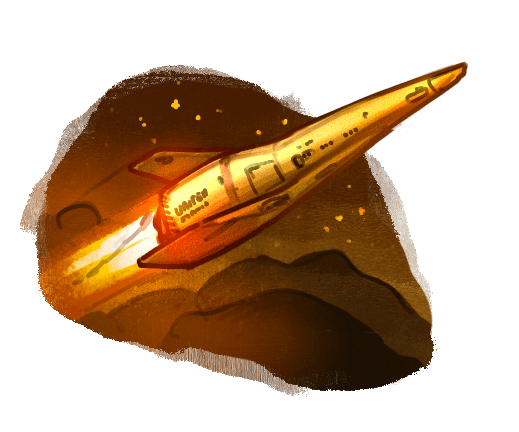
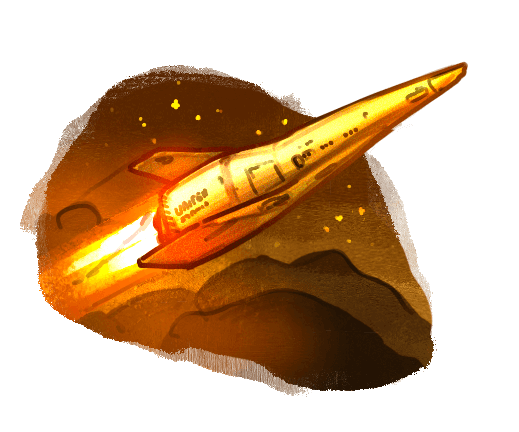
Post nav is ugly as fuck but it works

Changed region(s): [[0.0617, 0.1505, 0.9249, 0.8426], [0.3083, 0.2407, 0.3391, 0.2708], [0.2466, 0.2708, 0.2775, 0.3009]]

diff --git a/src/components/post/PostNavigationBar.component.tsx b/src/components/post/PostNavigationBar.component.tsx
@@ -1,22 +1,48 @@
 import Button, { ButtonType } from "@/components/common/Button/Button.component"
 import FullWidthWrapper, { WrapperMax } from "@/components/wrappers/FullWidthWrapper.component"
+import { getFilenameWithoutExtension } from "@/utils/posts"
 import { faArrowLeft, faArrowRight } from "@fortawesome/free-solid-svg-icons"
 import { FontAwesomeIcon } from "@fortawesome/react-fontawesome"
 
 const PostNavigationBar = ({
+    previousPost,
+    nextPost
 }) => {
+    const hasNextPost = nextPost !== null
+    const hasPreviousPost = previousPost !== null
+
+    let nextSlug, nextPostURL
+    if (nextPost) {
+        nextSlug = getFilenameWithoutExtension(nextPost?.file || "")
+        nextPostURL = nextPost ? `/posts/${nextSlug}` : ''
+    }
+
+    let previousSlug, previousPostURL
+    if (nextPost) {
+        previousSlug = getFilenameWithoutExtension(previousPost?.file || "")
+        previousPostURL = previousPost ? `/posts/${previousSlug}` : ''
+    }
+
     return (
         <FullWidthWrapper width={WrapperMax.BlogWidth} classes="post-navigation-bar">
             <div className="post-navigation-inner">
                 <span className="floater tiny-code">post navigation</span>
-                <Button type={ButtonType.Link} linkURL="/posts" classes="padded left">
+                <Button 
+                    type={ButtonType.Link} 
+                    linkURL={nextPostURL} 
+                    classes={`padded left ${!hasNextPost && "unavailable"}`}
+                >
                     <>
                         <FontAwesomeIcon icon={faArrowLeft}></FontAwesomeIcon>
                         <span className="label">Newer Post</span>
                     </>
                 </Button>
                 <div className="line"></div>
-                <Button type={ButtonType.Link} linkURL="/posts" classes="padded right">
+                <Button 
+                    type={ButtonType.Link} 
+                    linkURL={previousPostURL} 
+                    classes={`padded right ${!hasPreviousPost && "unavailable"}`}
+                >
                     <>
                         <span className="label">Older Post</span>
                         <FontAwesomeIcon icon={faArrowRight}></FontAwesomeIcon>

diff --git a/src/utils/astroHelpers.ts b/src/utils/astroHelpers.ts
@@ -52,12 +52,23 @@ export const getAllPosts = async () => {
   ];
 
   // Sort collection by date.
-  const sortedPosts = processedPosts.sort((a, b) => {
-    return b.post.data.pubDate.valueOf() - a.post.data.pubDate.valueOf();
-  });
+  const sortedPosts = sortProcessedPostsByPubDate(processedPosts)
 
   return sortedPosts;
 };
+
+// This is for posts processed from getCollection.
+export const sortProcessedPostsByPubDate = (processedPosts) => {
+  return processedPosts.sort((a, b) => {
+    return b.post.data.pubDate.valueOf() - a.post.data.pubDate.valueOf();
+  });
+}
+// This is for globbed posts.
+export const sortPostsByPubDate = (posts) => {
+  return posts.sort((a, b) => {
+    return b.frontmatter.pubDate.valueOf() - a.frontmatter.pubDate.valueOf();
+  });
+}
 
 // Takes incoming posts, compiles thumb image and search data
 export const processPosts = async (posts) => {
@@ -114,4 +125,8 @@ export const getProcessedImageById = async (imageId: string, width?: number, for
 
 export const getImageObjectById = (imageId: string) => {
   return Images.find((imageItem) => imageItem.id === imageId);
+}
+
+export const getNearestPosts = () => {
+  
 }

diff --git a/src/utils/posts.ts b/src/utils/posts.ts
@@ -1,0 +1,22 @@
+export const findAdjacentObjects = (
+  arr,
+  targetId: number
+) => {
+  const targetIndex = arr.findIndex((obj) => obj.frontmatter.title === targetId);
+
+  if (targetIndex === -1) {
+    return { previousPost: null, nextPost: null }; // target object with given id not found in array
+  }
+
+  const previousPost = targetIndex > 0 ? arr[targetIndex - 1] : null;
+  const nextPost = targetIndex < arr.length - 1 ? arr[targetIndex + 1] : null;
+
+  return { previousPost, nextPost };
+}
+
+export const getFilenameWithoutExtension = (path: string): string => {
+    const lastIndex = path.lastIndexOf('/');
+    const filenameWithExtension = lastIndex !== -1 ? path.substring(lastIndex + 1) : path;
+    const dotIndex = filenameWithExtension.lastIndexOf('.');
+    return dotIndex !== -1 ? filenameWithExtension.substring(0, dotIndex) : filenameWithExtension;
+  }

diff --git a/src/components/posts/PostCard.component.tsx b/src/components/posts/PostCard.component.tsx
@@ -46,7 +46,9 @@ const PostCard = ({
                 }
                 {(collection === PostType.Introduction) ? 
                     <div className="post-card-content">
-                        <img src={'/images/title-images/title-space-race.png'} width={300} />
+                        {imageSrc && 
+                            <img src={imageSrc} className="" width={300} />
+                        }
                         <h3 className="title">{post.data.mainText}</h3>
                         <p className="description">{post.data.subText}</p>
                         <TagCloud tags={post.data.tags} />

diff --git a/src/consts.ts b/src/consts.ts
@@ -2,5 +2,5 @@
 // You can import this data from anywhere in your site by using the `import` keyword.
 
 export const SITE_TITLE = 'Sunset System';
-export const SITE_DESCRIPTION = 'Sunset System is a showcase about a world where humanity vanished from the Solar System during an extended Space Race, leaving behind the robots that ran the world.';
+export const SITE_DESCRIPTION = 'Sunset System is a showcase of a world where a retrofuturistic humanity vanished from the Solar System, leaving behind the robots that ran the world.';
 export const TITLE_SUFFIX = " - Sunset System"

diff --git a/src/styles/main.scss b/src/styles/main.scss
@@ -3168,6 +3168,10 @@ $dialog-main-color: $color-sunset-red;
                 }
             }
         }
+        .unavailable {
+            opacity: 0;
+            display: none;
+        }
         .label {
             @media screen and (max-width: $breakpoint-mobile) {
                 display: none;
@@ -4022,4 +4026,8 @@ a.artist-tag {
             color: $color-spooky-light;
         }
     }
+}
+
+.image-lighten {
+    mix-blend-mode: lighten;
 }

diff --git a/src/utils/sharedImages.ts b/src/utils/sharedImages.ts
@@ -61,7 +61,7 @@ export const Images: ImageDetails[] = [
     },
     {
         id: 'title-space-race',
-        src: '/images/title-images/title-space-race.png',
+        src: '/images/title-images/title-space-race-4.png',
         alt: 'Rocket launching into the sky',
         width: 519,
         height: 432
